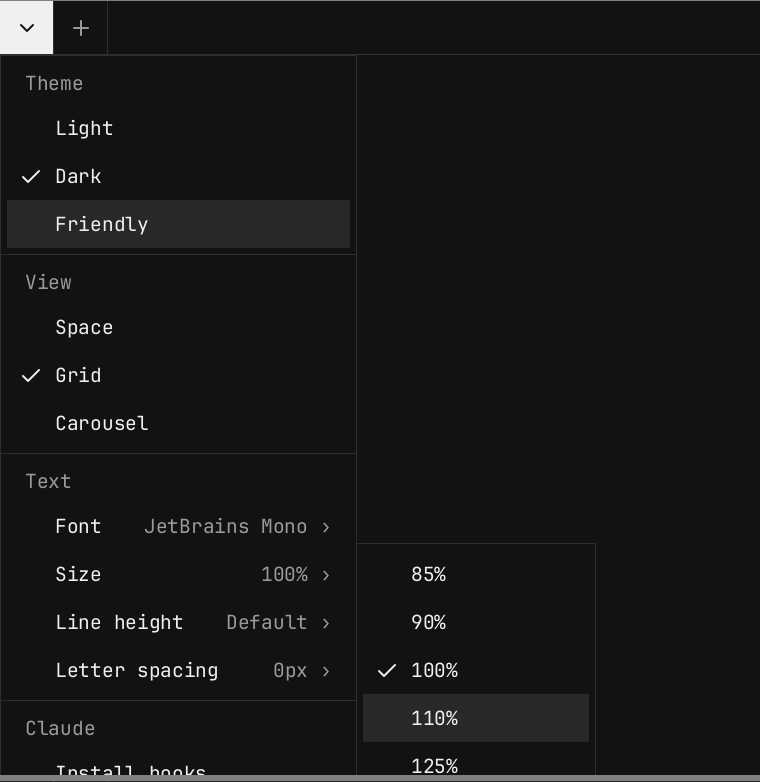
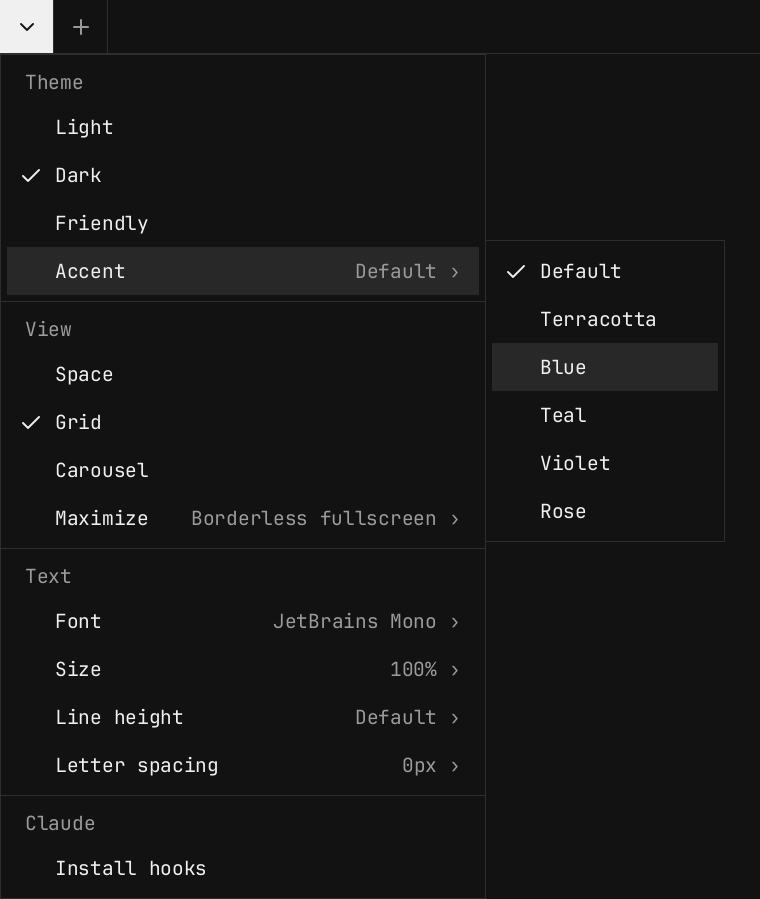
docs: menu.png shows the Accent and Maximize rows

diff --git a/src/main.rs b/src/main.rs
@@ -2745,7 +2745,7 @@ mod header_preview {
     fn render(th: Theme, theme: usize, menu: bool, sel: Option<usize>, mouse: (i32, i32), scale: f32) -> (i32, i32, Vec<u32>) {
         let (mut ui, mut icons) = (Font::new(UI_PX * scale), Font::icons(ICON * scale));
         let hh = px(HEADER, scale);
-        let (w, h) = ((1100.0 * scale) as i32, hh + px(if menu { 480.0 } else { 24.0 }, scale));
+        let (w, h) = ((1100.0 * scale) as i32, hh + px(if menu { 600.0 } else { 24.0 }, scale));
         let mut buf = vec![th.bg; (w * h) as usize]; // below the header: the terminal surface, to show the active tab joining it
         let none = HashMap::new();
         let mut chrome = Chrome { th, scale, w, fades: &none, view: View::Grid, theme, menu_open: menu, menu_sel: sel, maximized: false, can_add: true, hooks: false };
@@ -2757,7 +2757,7 @@ mod header_preview {
         hits.clear();
         draw_header(&mut cv, &mut icons, &chrome, &mut hits);
         if menu {
-            draw_menu(&mut cv, &mut ui, &mut icons, &chrome, TEXT_DEFAULT, Some((1, Some(3))), &mut hits);
+            draw_menu(&mut cv, &mut ui, &mut icons, &chrome, TEXT_DEFAULT, Some((4, Some(2))), &mut hits); // the Accent submenu open
         }
         (w, h, buf)
     }
@@ -2770,7 +2770,7 @@ mod header_preview {
         let (mut all, mut total_h, mut width) = (Vec::new(), 0, 0);
         for (theme, th) in [Theme::light(), Theme::dark(), Theme::friendly()].into_iter().enumerate() {
             // closed, a tab hovered, dropdown open with a row highlighted
-            for (menu, sel, mouse) in [(false, None, (-1, -1)), (false, None, (px(230.0, scale), 6)), (true, Some(2), (40, 150))] {
+            for (menu, sel, mouse) in [(false, None, (-1, -1)), (false, None, (px(230.0, scale), 6)), (true, Some(3), (40, 150))] {
                 let (w, h, b) = render(th, theme, menu, sel, mouse, scale);
                 all.extend(b);
                 all.extend(vec![0x808080; (w * 6) as usize]); // divider between states
